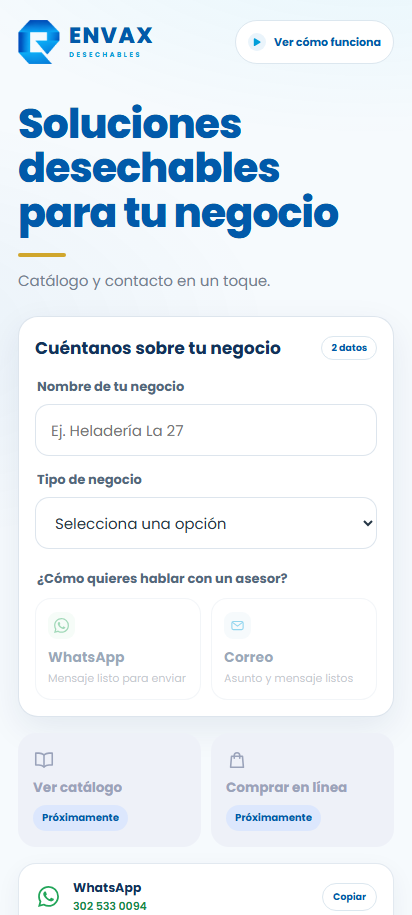
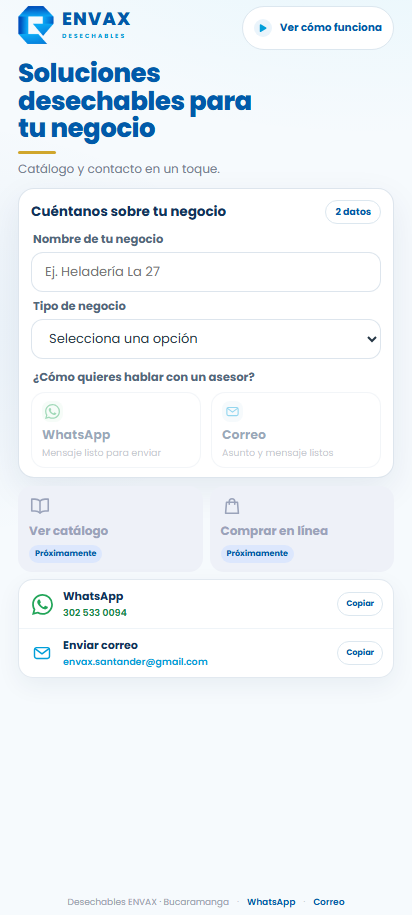
fix(contact): fit page in one viewport without scrolling

diff --git a/index.html b/index.html
@@ -48,7 +48,7 @@ img{display:block}
  .brand .word span{display:block;font-size:7.5px;letter-spacing:.34em;color:var(--commercial);font-weight:700;margin-top:5px;text-transform:uppercase}
 
 /* ===== Cabecera ===== */
- .site-head{padding:28px 0 0}
+ .site-head{padding:14px 0 0}
 .site-head .wrap{display:flex;align-items:center;justify-content:space-between;gap:12px}
  .pill{
   display:inline-flex;align-items:center;gap:8px;
@@ -66,25 +66,25 @@ img{display:block}
 .pill.demo .ic{background:var(--tint);color:var(--commercial)}
 
 /* ===== Rejilla principal ===== */
- .main-zone{flex:1;padding:42px 0 52px}
- .grid{display:grid;grid-template-columns:1fr;gap:42px;align-items:start;position:relative}
+ .main-zone{flex:1;padding:14px 0 0}
+ .grid{display:grid;grid-template-columns:1fr;gap:30px;align-items:start;position:relative}
 
 /* ===== Columna del contenido (la "pantalla" de la demo) ===== */
  .screen-col{max-width:500px;width:100%;margin:0 auto}
  .hero{position:relative}
  .hero-title{
-   font-size:clamp(34px,4.2vw,58px);
-   line-height:1.08;letter-spacing:-.025em;font-weight:800;
-   margin-top:8px;max-width:12ch;color:var(--blue);
+   font-size:clamp(23px,5.2vw,34px);
+   line-height:1.06;letter-spacing:-.02em;font-weight:800;
+   margin-top:4px;max-width:20ch;color:var(--blue);
  }
- .hero-rule{width:48px;height:4px;border-radius:2px;background:var(--gold);margin:18px 0 12px}
- .hero-sub{font-size:15px;color:var(--muted)}
+ .hero-rule{width:38px;height:3px;border-radius:2px;background:var(--gold);margin:12px 0 8px}
+ .hero-sub{font-size:13px;color:var(--muted)}
 
 /* Tarjeta de captura (calcada de la demo) */
 .intake{
-   margin-top:28px;background:var(--card);
-   border:1px solid rgba(15,73,130,.14);border-radius:22px;
-   padding:20px 20px 18px;
+   margin-top:14px;background:var(--card);
+   border:1px solid rgba(15,73,130,.14);border-radius:18px;
+   padding:14px 16px 12px;
    box-shadow:0 12px 35px rgba(10,43,83,.08);
 }
 .intake.glow{animation:glow 1.6s ease}
@@ -92,15 +92,15 @@ img{display:block}
   0%,100%{box-shadow:0 8px 24px rgba(1,90,170,.06)}
   35%{box-shadow:0 0 0 4px rgba(1,158,217,.18), 0 16px 40px rgba(1,90,170,.14)}
 }
- .intake-head{display:flex;align-items:center;justify-content:space-between;gap:8px;margin-bottom:16px}
- .intake-head b{font-size:17px;color:var(--navy)}
+ .intake-head{display:flex;align-items:center;justify-content:space-between;gap:8px;margin-bottom:10px}
+ .intake-head b{font-size:14.5px;color:var(--navy)}
 .step-pill{font-size:9.5px;font-weight:700;color:var(--blue);background:var(--card);border:1px solid var(--line);padding:4px 9px;border-radius:999px;white-space:nowrap;flex:0 0 auto}
- .field{margin-top:14px}
+ .field{margin-top:8px}
 .field:first-of-type{margin-top:0}
- .field label{display:block;font-size:13px;font-weight:700;color:#52687B;margin:0 0 7px 2px}
+ .field label{display:block;font-size:12px;font-weight:700;color:#52687B;margin:0 0 5px 2px}
 .control{
-   width:100%;height:52px;border:1.5px solid rgba(15,73,130,.14);border-radius:14px;background:var(--card);
-   padding:0 15px;color:var(--ink);outline:none;font-size:15px;
+   width:100%;height:44px;border:1.5px solid rgba(15,73,130,.14);border-radius:12px;background:var(--card);
+   padding:0 13px;color:var(--ink);outline:none;font-size:14px;
   transition:border-color .2s ease, box-shadow .2s ease;
 }
 .control:focus{border-color:var(--commercial);box-shadow:0 0 0 3px rgba(1,158,217,.13)}
@@ -116,18 +116,18 @@ select.control{appearance:auto}
   overflow:hidden;max-height:0;opacity:0;margin-top:0;
   transition:max-height .45s var(--ease), opacity .35s ease, margin-top .4s ease;
 }
- .preview.show{max-height:200px;opacity:1;margin-top:16px}
+ .preview.show{max-height:150px;opacity:1;margin-top:12px}
 .preview-head{display:flex;align-items:center;gap:6px;padding:9px 12px 0;font-size:9.5px;font-weight:700;color:#52687B;text-transform:uppercase;letter-spacing:.08em}
 .preview-head svg{color:var(--commercial)}
 .preview-body{padding:6px 12px 10px;font-size:11.5px;line-height:1.55;color:var(--ink);white-space:pre-line}
 .preview-body b{color:var(--blue)}
 
 /* Canales (calcados de la demo) */
- .channels-label{font-size:13px;font-weight:700;color:#52687B;margin:18px 2px 9px}
+ .channels-label{font-size:12px;font-weight:700;color:#52687B;margin:12px 2px 7px}
  .channel-grid{display:grid;grid-template-columns:1fr 1fr;gap:10px}
 .channel{
-   border:1px solid rgba(15,73,130,.12);background:var(--card);border-radius:16px;
-   padding:13px 12px;min-height:88px;text-align:left;
+   border:1px solid rgba(15,73,130,.12);background:var(--card);border-radius:14px;
+   padding:10px 11px;min-height:66px;text-align:left;
   transition:opacity .3s ease, transform .18s ease, box-shadow .3s ease, border-color .3s ease;
   display:flex;flex-direction:column;justify-content:space-between;position:relative;overflow:hidden;
 }
@@ -138,25 +138,25 @@ select.control{appearance:auto}
 .channel:not(:disabled).email{border-color:#BFE0F4;box-shadow:0 10px 22px -12px rgba(1,158,217,.4)}
 .channel.pop{animation:chpop .55s var(--ease)}
 @keyframes chpop{0%{transform:scale(1)}45%{transform:scale(1.045)}100%{transform:scale(1)}}
- .channel strong{display:block;color:var(--navy);font-size:14px}
- .channel small{display:block;color:var(--muted);font-size:11px;margin-top:3px;line-height:1.35}
-.channel .mini{width:27px;height:27px;border-radius:9px;display:grid;place-items:center;margin-bottom:8px}
+.channel strong{display:block;color:var(--navy);font-size:13px}
+ .channel small{display:block;color:var(--muted);font-size:10px;margin-top:3px;line-height:1.35}
+ .channel .mini{width:23px;height:23px;border-radius:8px;display:grid;place-items:center;margin-bottom:6px}
 .channel.wa .mini{background:#EAF8EF;color:var(--green)}
 .channel.email .mini{background:#EAF4FA;color:var(--commercial)}
 .ripple-ink{position:absolute;border-radius:50%;pointer-events:none;background:currentColor;opacity:.14;transform:scale(0);animation:rink .55s ease-out forwards}
 @keyframes rink{to{transform:scale(3);opacity:0}}
 
 /* Catálogo y Comprar en línea: fila atenuada de 2 (idéntica a la demo) */
- .catalog-row{margin-top:16px;display:grid;grid-template-columns:1fr 1fr;gap:10px}
+.catalog-row{margin-top:10px;display:grid;grid-template-columns:1fr 1fr;gap:8px}
 .catalog{
-  width:100%;display:flex;flex-direction:column;align-items:flex-start;gap:8px;
-   background:#EEF1F8;border-radius:18px;
-   padding:15px 14px;color:#9AA3BA;text-align:left;cursor:default;border:1px solid transparent;
-   min-height:88px;
-}
+  width:100%;display:flex;flex-direction:column;align-items:flex-start;gap:6px;
+   background:#EEF1F8;border-radius:14px;
+   padding:10px 12px;color:#9AA3BA;text-align:left;cursor:default;border:1px solid transparent;
+   min-height:58px;
+ }
 .catalog svg{flex:0 0 auto;color:#9AA3BA}
- .catalog b{font-size:13.5px;font-weight:700;line-height:1.3}
- .catalog .badge{font-size:10px;font-weight:700;border-radius:999px;padding:5px 9px;background:#DCE7FD;color:var(--blue);white-space:nowrap}
+ .catalog b{font-size:12.5px;font-weight:700;line-height:1.3}
+ .catalog .badge{font-size:8.5px;font-weight:700;border-radius:999px;padding:4px 8px;background:#DCE7FD;color:var(--blue);white-space:nowrap}
 .catalog.active{
   background:var(--card);border-color:var(--line);color:var(--navy);cursor:pointer;
   box-shadow:0 1px 2px rgba(1,90,170,.05), 0 8px 18px -12px rgba(1,90,170,.14);
@@ -171,28 +171,28 @@ select.control{appearance:auto}
 }
 
 /* Contacto directo (filas estilo demo) */
- .direct{margin-top:16px;background:var(--card);border:1px solid rgba(15,73,130,.12);border-radius:18px;overflow:hidden;box-shadow:0 8px 24px rgba(10,43,83,.06)}
- .direct-row{display:flex;align-items:center;gap:12px;padding:15px 16px;font-size:13px}
+ .direct{margin-top:10px;background:var(--card);border:1px solid rgba(15,73,130,.12);border-radius:15px;overflow:hidden;box-shadow:0 8px 24px rgba(10,43,83,.06)}
+ .direct-row{display:flex;align-items:center;gap:10px;padding:10px 12px;font-size:12px}
 .direct-row + .direct-row{border-top:1px solid #EFF4F8}
 .direct-row .ic{width:26px;height:26px;display:grid;place-items:center;flex:0 0 auto}
 .direct-row.wa .ic{color:var(--green)}
 .direct-row.mail .ic{color:var(--commercial)}
 .direct-row .tx{flex:1;min-width:0}
-.direct-row .tx b{display:block;font-size:12.5px;color:var(--navy)}
-.direct-row .tx span{display:block;font-size:11px;font-weight:600;margin-top:1px;white-space:nowrap;overflow:hidden;text-overflow:ellipsis}
+.direct-row .tx b{display:block;font-size:11.5px;color:var(--navy)}
+ .direct-row .tx span{display:block;font-size:10px;font-weight:600;margin-top:1px;white-space:nowrap;overflow:hidden;text-overflow:ellipsis}
 .direct-row.wa .tx span{color:var(--green-deep)}
 .direct-row.mail .tx span{color:var(--commercial)}
 .copy-btn{
-  font-size:9.5px;font-weight:700;color:var(--blue);
-  border:1px solid var(--line);border-radius:999px;padding:6px 10px;background:var(--card);
+  font-size:8.5px;font-weight:700;color:var(--blue);
+  border:1px solid var(--line);border-radius:999px;padding:5px 8px;background:var(--card);
   transition:.18s ease;flex:0 0 auto;
 }
 .copy-btn:hover{border-color:var(--commercial)}
 .copy-btn:active{transform:scale(.94)}
 .copy-btn.copied{background:#EAF8EF;color:var(--green-deep);border-color:#C6E9D2}
 
-/* Ondas (como en la demo) */
- .waves{width:100%;height:56px;margin-top:28px;opacity:.4}
+/* Ondas (como en la demo): decorativas, ocultas en el modo a una sola pantalla */
+ .waves{display:none}
 
 /* ===== Columna de la demo (escritorio) ===== */
 .demo-panel{display:none}
@@ -206,8 +206,8 @@ select.control{appearance:auto}
 }
 
 /* ===== Pie ===== */
-.site-foot{padding:16px 0 22px}
-.site-foot .wrap{display:flex;align-items:center;justify-content:center;gap:8px;flex-wrap:wrap;color:#97A3AE;font-size:10.5px;text-align:center}
+.site-foot{padding:6px 0 10px}
+ .site-foot .wrap{display:flex;align-items:center;justify-content:center;gap:8px;flex-wrap:wrap;color:#97A3AE;font-size:9.5px;text-align:center}
 .site-foot a{color:var(--blue);text-decoration:none;font-weight:600}
 .site-foot a:hover{text-decoration:underline}
 .site-foot .sep{opacity:.5}
@@ -335,23 +335,104 @@ select.control{appearance:auto}
    .demo-inline{height:clamp(450px,64dvh,620px)}
 }
 @media (max-width:560px){
-   .site-head{padding-top:20px}
+   .site-head{padding-top:6px}
    .wrap{padding:0 18px}
-   .site-head .wrap{flex-wrap:wrap;align-items:flex-start;row-gap:10px}
+   .site-head .wrap{flex-wrap:wrap;align-items:flex-start;row-gap:6px}
    .site-head .wrap>span{margin-left:auto}
-   .pill{padding:9px 12px;font-size:11px}
-   .brand{gap:9px}
-   .brand .mark{width:42px}
-   .brand .word b{font-size:22px}
-   .brand .word span{font-size:6.8px}
-   .hero-title{font-size:clamp(34px,10vw,46px);max-width:13ch}
-   .main-zone{padding-top:30px}
-   .intake{margin-top:24px;padding:18px 16px 16px;border-radius:20px}
+   .pill{padding:8px 11px;font-size:10.5px}
+   .brand{gap:8px}
+   .brand .mark{width:36px}
+   .brand .word b{font-size:18px}
+   .brand .word span{font-size:6px}
+   .hero-title{font-size:clamp(19px,6.4vw,26px);max-width:15ch}
+   .hero-rule{margin:8px 0 6px}
+   .hero-sub{font-size:12px}
+   .main-zone{padding-top:6px}
+   .intake{margin-top:10px;padding:11px 12px 9px;border-radius:16px}
+   .intake-head{margin-bottom:7px}
+   .intake-head b{font-size:13.5px}
+   .field{margin-top:6px}
+   .field label{font-size:11.5px;margin-bottom:4px}
+   .control{height:40px;font-size:13px}
+   .channels-label{font-size:11.5px;margin:8px 2px 6px}
+   .channel{min-height:58px;padding:8px 10px}
+   .channel strong{font-size:12.5px}
+   .channel small{font-size:9.5px}
+   .channel .mini{width:21px;height:21px;margin-bottom:4px}
+   .catalog-row{margin-top:8px;gap:7px}
+   .catalog{min-height:50px;padding:8px 10px}
+   .catalog b{font-size:12px}
+   .catalog .badge{font-size:8px;padding:3px 6px}
+   .direct{margin-top:7px}
+   .direct-row{gap:8px;padding:8px 10px;font-size:11.5px}
+   .direct-row .tx b{font-size:11px}
+   .direct-row .tx span{font-size:9.5px}
+   .copy-btn{font-size:8px;padding:5px 8px}
+   .site-foot{padding:3px 0 6px}
+   .site-foot .wrap{font-size:9px}
 }
 @media (max-width:380px){
   .channel-grid{grid-template-columns:1fr}
-  .channel{min-height:0;flex-direction:row;align-items:center;gap:11px}
+  .channel{min-height:0;flex-direction:row;align-items:center;gap:9px;padding:6px 9px}
   .channel .mini{margin-bottom:0}
+  .channel small{font-size:9px}
+}
+/* Pantallas anchas pero bajas (móvil horizontal / tablet landscape):
+   reparte el contenido en dos columnas para que todo quepa sin scroll. */
+@media (orientation:landscape) and (min-width:640px) and (max-width:1099px) and (max-height:779px){
+   .site-head{padding-top:4px}
+   .main-zone{padding-top:2px}
+   .brand .mark{width:30px}
+   .brand .word b{font-size:17px}
+   .brand .word span{font-size:5.8px}
+   .screen-col{
+     max-width:1000px;margin:0 auto;
+     display:grid;grid-template-columns:minmax(0,1fr) minmax(0,1fr);
+     gap:0 30px;align-items:start;
+   }
+   .hero{grid-column:1;grid-row:1;align-self:start}
+   .intake{grid-column:1;grid-row:2}
+   .catalog-row{grid-column:2;grid-row:1;margin-top:0}
+   .direct{grid-column:2;grid-row:2}
+   .hero-title{font-size:clamp(15px,2.4vw,20px);margin-top:2px}
+   .hero-rule{margin:5px 0 3px}
+   .hero-sub{font-size:11px}
+   .intake{margin-top:8px;padding:7px 11px 7px;border-radius:13px}
+   .intake-head{margin-bottom:4px}
+   .intake-head b{font-size:12px}
+   .step-pill{font-size:8px;padding:2px 6px}
+   .field{margin-top:4px}
+   .field label{font-size:10px;margin-bottom:3px}
+   .control{height:32px;font-size:12px}
+   .channels-label{font-size:10.5px;margin:5px 2px 4px}
+   .channel{min-height:40px;padding:5px 9px}
+   .channel strong{font-size:11px}
+   .channel small{font-size:8.5px}
+   .channel .mini{width:17px;height:17px;margin-bottom:2px}
+   .catalog-row{gap:6px}
+   .catalog{min-height:38px;padding:5px 9px;gap:2px}
+   .catalog b{font-size:10.5px}
+   .catalog .badge{font-size:7.5px;padding:3px 6px}
+   .direct{margin-top:8px}
+   .direct-row{gap:6px;padding:6px 9px;font-size:10.5px}
+   .direct-row .tx b{font-size:10px}
+   .direct-row .tx span{font-size:8.5px}
+   .copy-btn{font-size:7.5px;padding:4px 7px}
+   .site-foot{padding:2px 0 4px}
+   .site-foot .wrap{font-size:8.5px}
+}
+/* Escritorios anchos pero bajos (1100–1359px, altura < 760px): 
+   dos columnas para que todo quepa sin scroll. */
+@media (min-width:1100px) and (max-width:1359px) and (max-height:759px){
+   .screen-col{
+     max-width:1180px;margin:0 auto;
+     display:grid;grid-template-columns:minmax(0,1fr) minmax(0,1fr);
+     gap:0 30px;align-items:start;
+   }
+   .hero{grid-column:1;grid-row:1;align-self:start}
+   .intake{grid-column:1;grid-row:2}
+   .catalog-row{grid-column:2;grid-row:1;margin-top:0}
+   .direct{grid-column:2;grid-row:2}
 }
 @media (prefers-reduced-motion:reduce){
   *{scroll-behavior:auto!important;transition-duration:.01s!important;animation-duration:.01s!important}
